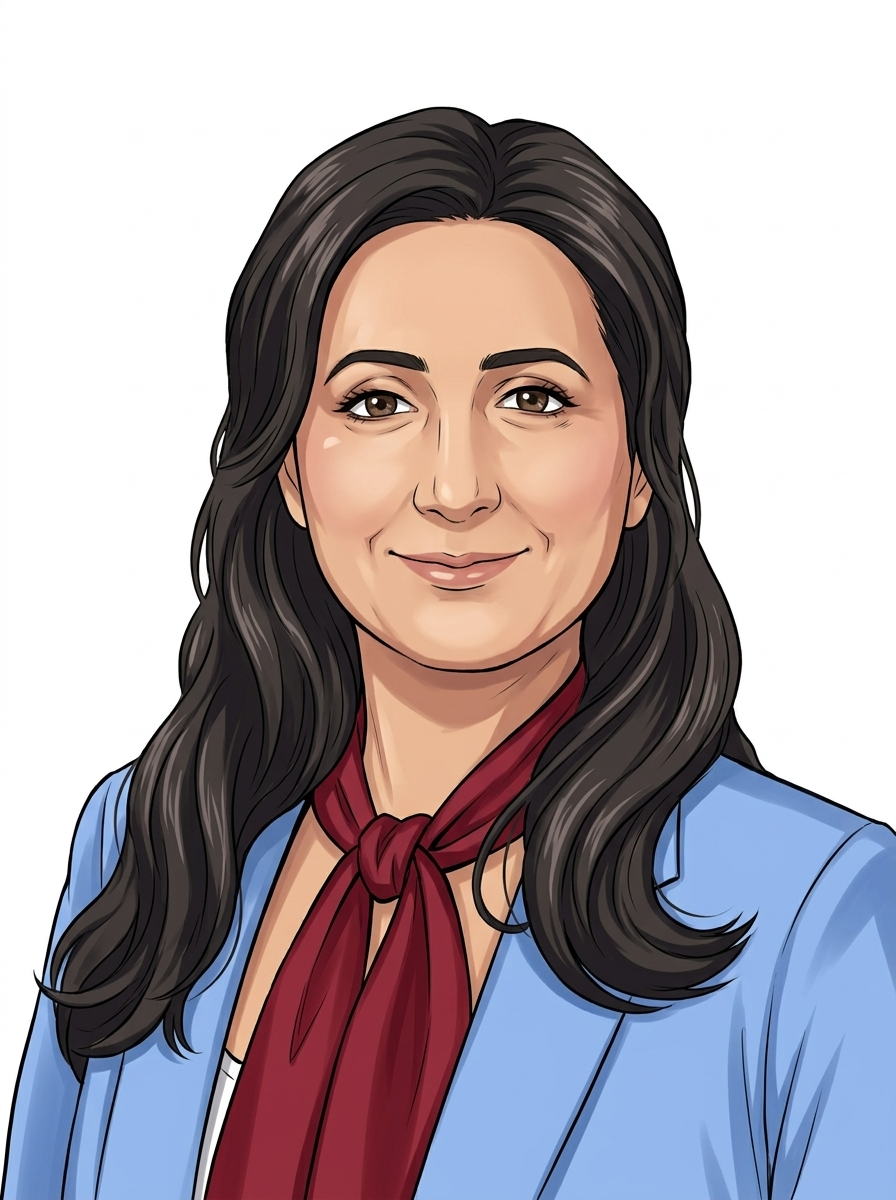
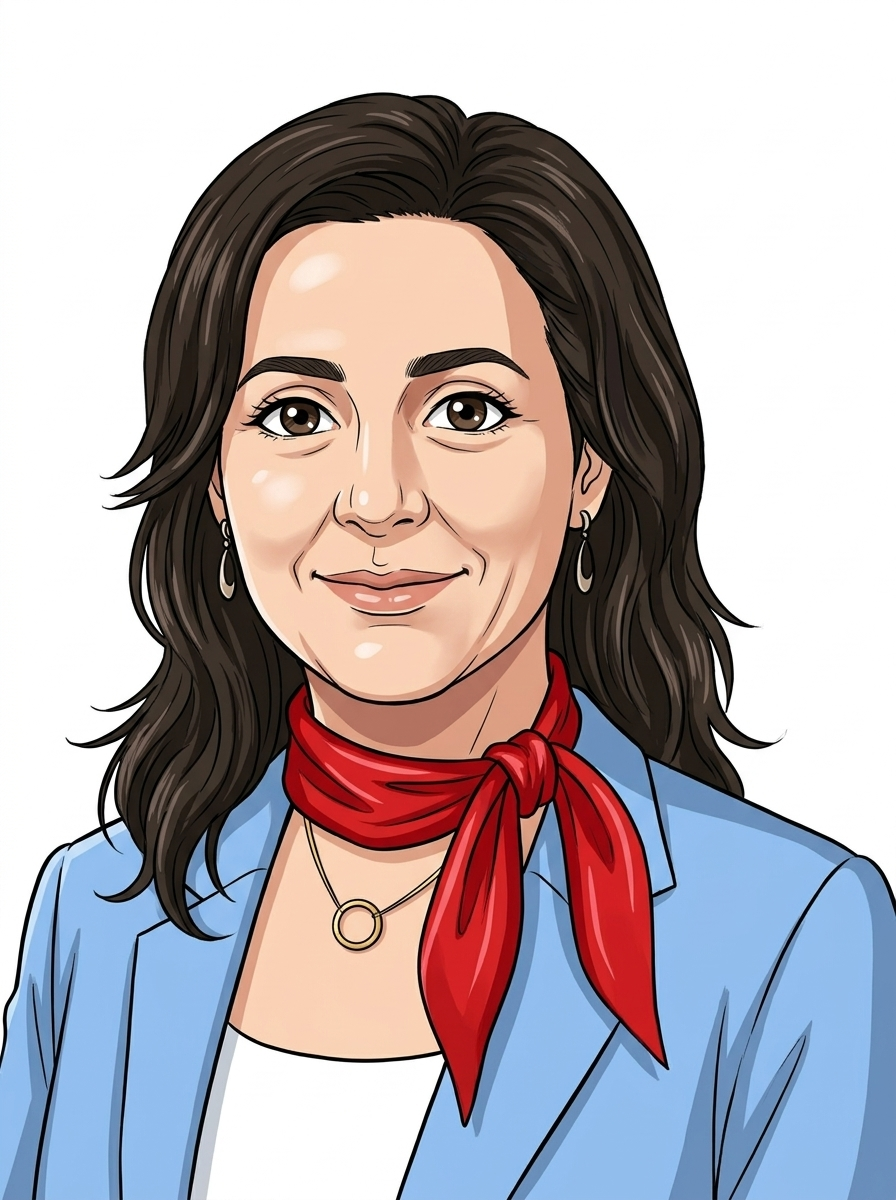
Vier afgekeurde manga-figuren opnieuw met stijlvoorbeeld; bestaand() slaat afgekeurde bestanden over
Claude-Session: https://claude.ai/code/session_01PPD81pUqwBLdc97B7WHz9X

diff --git a/scripts/manga.py b/scripts/manga.py
@@ -137,7 +137,7 @@ def zoek_beeld(antwoord):
 
 
 def bestaand(map_, emo):
-    return next(iter(sorted(map_.glob(f"{emo}.*[gp]"))), None)
+    return next(iter(sorted(p for p in map_.glob(f"{emo}.*[gp]") if ".afgekeurd" not in p.name)), None)
 
 
 def maak(sleutel, u, emoties, log, stijl="zw"):
